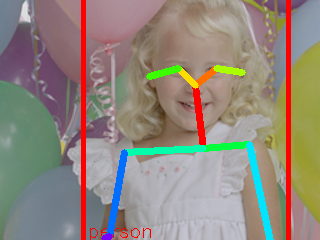
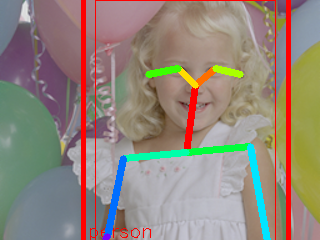
Change body center logic

diff --git a/pose_resnet/pose_resnet_util.py b/pose_resnet/pose_resnet_util.py
@@ -171,26 +171,39 @@ def compute(net,original_img,offset_x,offset_y,scale_x,scale_y):
         z=0
         interpolated=0
         if j==ailia.POSE_KEYPOINT_BODY_CENTER:
-            x=(k_list[ailia.POSE_KEYPOINT_SHOULDER_CENTER].x+k_list[ailia.POSE_KEYPOINT_HIP_LEFT].x+k_list[ailia.POSE_KEYPOINT_HIP_RIGHT].x)/3
-            y=(k_list[ailia.POSE_KEYPOINT_SHOULDER_CENTER].y+k_list[ailia.POSE_KEYPOINT_HIP_LEFT].y+k_list[ailia.POSE_KEYPOINT_HIP_RIGHT].y)/3
-            score=min(min(k_list[ailia.POSE_KEYPOINT_SHOULDER_CENTER].score,k_list[ailia.POSE_KEYPOINT_HIP_LEFT].score),k_list[ailia.POSE_KEYPOINT_HIP_RIGHT].score)
+            x=(preds[0,ailia_to_mpi[ailia.POSE_KEYPOINT_SHOULDER_LEFT],0]+
+               preds[0,ailia_to_mpi[ailia.POSE_KEYPOINT_SHOULDER_RIGHT],0]+
+               preds[0,ailia_to_mpi[ailia.POSE_KEYPOINT_HIP_LEFT],0]+
+               preds[0,ailia_to_mpi[ailia.POSE_KEYPOINT_HIP_RIGHT],0])/4
+            y=(preds[0,ailia_to_mpi[ailia.POSE_KEYPOINT_SHOULDER_LEFT],1]+
+               preds[0,ailia_to_mpi[ailia.POSE_KEYPOINT_SHOULDER_RIGHT],1]+
+               preds[0,ailia_to_mpi[ailia.POSE_KEYPOINT_HIP_LEFT],1]+
+               preds[0,ailia_to_mpi[ailia.POSE_KEYPOINT_HIP_RIGHT],1])/4
+            score=min(min(min(
+                    maxvals[0,ailia_to_mpi[ailia.POSE_KEYPOINT_SHOULDER_LEFT],0],
+                    maxvals[0,ailia_to_mpi[ailia.POSE_KEYPOINT_SHOULDER_RIGHT],0]),
+                    maxvals[0,ailia_to_mpi[ailia.POSE_KEYPOINT_HIP_LEFT],0]),
+                    maxvals[0,ailia_to_mpi[ailia.POSE_KEYPOINT_HIP_RIGHT],0])
             interpolated=1
         elif j==ailia.POSE_KEYPOINT_SHOULDER_CENTER:
-            x=(k_list[ailia.POSE_KEYPOINT_SHOULDER_LEFT].x+k_list[ailia.POSE_KEYPOINT_SHOULDER_RIGHT].x)/2
-            y=(k_list[ailia.POSE_KEYPOINT_SHOULDER_LEFT].y+k_list[ailia.POSE_KEYPOINT_SHOULDER_RIGHT].y)/2
-            score=min(k_list[ailia.POSE_KEYPOINT_SHOULDER_LEFT].score,k_list[ailia.POSE_KEYPOINT_SHOULDER_RIGHT].score)
+            x=(preds[0,ailia_to_mpi[ailia.POSE_KEYPOINT_SHOULDER_LEFT],0]+
+               preds[0,ailia_to_mpi[ailia.POSE_KEYPOINT_SHOULDER_RIGHT],0])/2
+            y=(preds[0,ailia_to_mpi[ailia.POSE_KEYPOINT_SHOULDER_LEFT],1]+
+               preds[0,ailia_to_mpi[ailia.POSE_KEYPOINT_SHOULDER_RIGHT],1])/2
+            score=min(maxvals[0,ailia_to_mpi[ailia.POSE_KEYPOINT_SHOULDER_LEFT]],
+               maxvals[0,ailia_to_mpi[ailia.POSE_KEYPOINT_SHOULDER_RIGHT]])
             interpolated=1
         else:
-            x=preds[0,i,0] / src_img.shape[1]
-            y=preds[0,i,1] / src_img.shape[0]
+            x=preds[0,i,0]
+            y=preds[0,i,1]
             score=maxvals[0,i,0]
 
         num_valid_points=num_valid_points+1
         total_score=total_score+score
 
         k = ailia.PoseEstimatorKeypoint(
-            x = x * scale_x + offset_x,
-            y = y * scale_y + offset_y,
+            x = x / src_img.shape[1] * scale_x + offset_x,
+            y = y / src_img.shape[0] * scale_y + offset_y,
             z_local = z,
             score = score,
             interpolated = interpolated,
